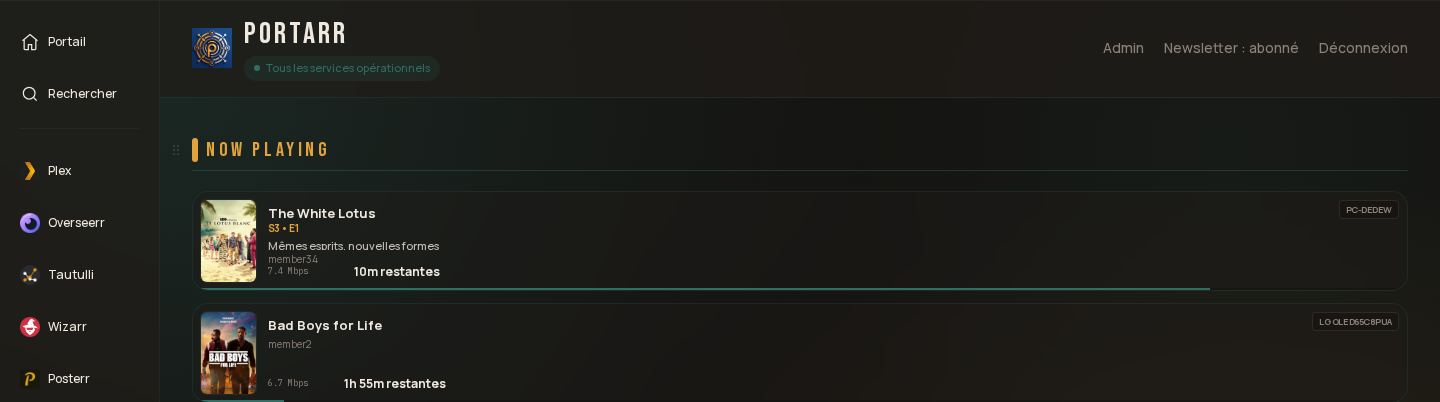
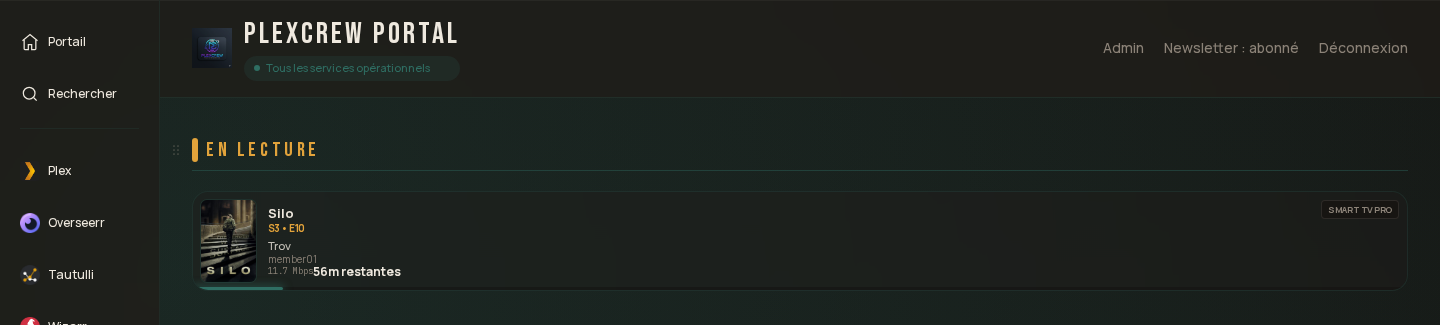
docs: refresh dashboard/stats screenshots, document visual polish
dashboard-hero.png and stats.png were still showing the pre-1.1.0 look —
StatCard's podium treatment for rank #1 (trophy, amber glow) and
NowPlaying's glowing progress bar shipped in 1.1.0 but were never reflected
in the screenshots or captions. Recaptured from a live instance and
anonymized (real usernames replaced with generic member labels, matching
the existing screenshots' convention) before committing.

diff --git a/README.md b/README.md
@@ -33,7 +33,7 @@ Ce n'est pas une suite de gestion média complète — pour ça, gardez les inte
 
 ### Dashboard
 
-Les derniers ajouts (films et séries) dans un carrousel de posters animé — chaque carte renvoie vers la fiche du média sur Plex Web — et ce qui est en cours de lecture sur le serveur.
+Les derniers ajouts (films et séries) dans un carrousel de posters animé — chaque carte renvoie vers la fiche du média sur Plex Web — et ce qui est en cours de lecture sur le serveur, avec une barre de progression lumineuse (teal en lecture, ambre en pause).
 
 <img src="docs/screenshots/dashboard-hero.png" alt="En-tête du dashboard et lecture en cours" width="800">
 <br>
@@ -43,7 +43,7 @@ Un calendrier des sorties à venir, alimenté par Sonarr/Radarr :
 
 <img src="docs/screenshots/calendar.png" alt="Calendrier des sorties" width="800">
 
-Les statistiques globales issues de Tautulli, et les demandes Overseerr en attente propres à chaque utilisateur :
+Les statistiques globales issues de Tautulli — le n°1 de chaque catégorie reçoit un traitement "podium" (trophée, halo ambre) — et les demandes Overseerr en attente, dans une grille dense qui s'agrandit au survol pour afficher les détails :
 
 <img src="docs/screenshots/stats.png" alt="Statistiques" width="800">
 <br>
@@ -232,7 +232,7 @@ It's not trying to be a full media-management suite — for that, keep using \*a
 
 ### Dashboard
 
-Recently-added movies and shows in an animated poster carousel — each card links straight to its Plex Web detail page — plus what's currently playing on the server.
+Recently-added movies and shows in an animated poster carousel — each card links straight to its Plex Web detail page — plus what's currently playing on the server, with a glowing progress bar (teal while playing, amber while paused).
 
 <img src="docs/screenshots/dashboard-hero.png" alt="Dashboard header and Now Playing" width="800">
 <br>
@@ -242,7 +242,7 @@ An upcoming-releases calendar sourced from Sonarr/Radarr:
 
 <img src="docs/screenshots/calendar.png" alt="Coming Soon calendar" width="800">
 
-Server-wide stats from Tautulli, and each user's own pending Overseerr requests:
+Server-wide stats from Tautulli — the #1 spot in each category gets a podium treatment (trophy, amber glow) — and each user's own pending Overseerr requests, in a dense grid that expands on hover for details:
 
 <img src="docs/screenshots/stats.png" alt="Box Office stats" width="800">
 <br>
